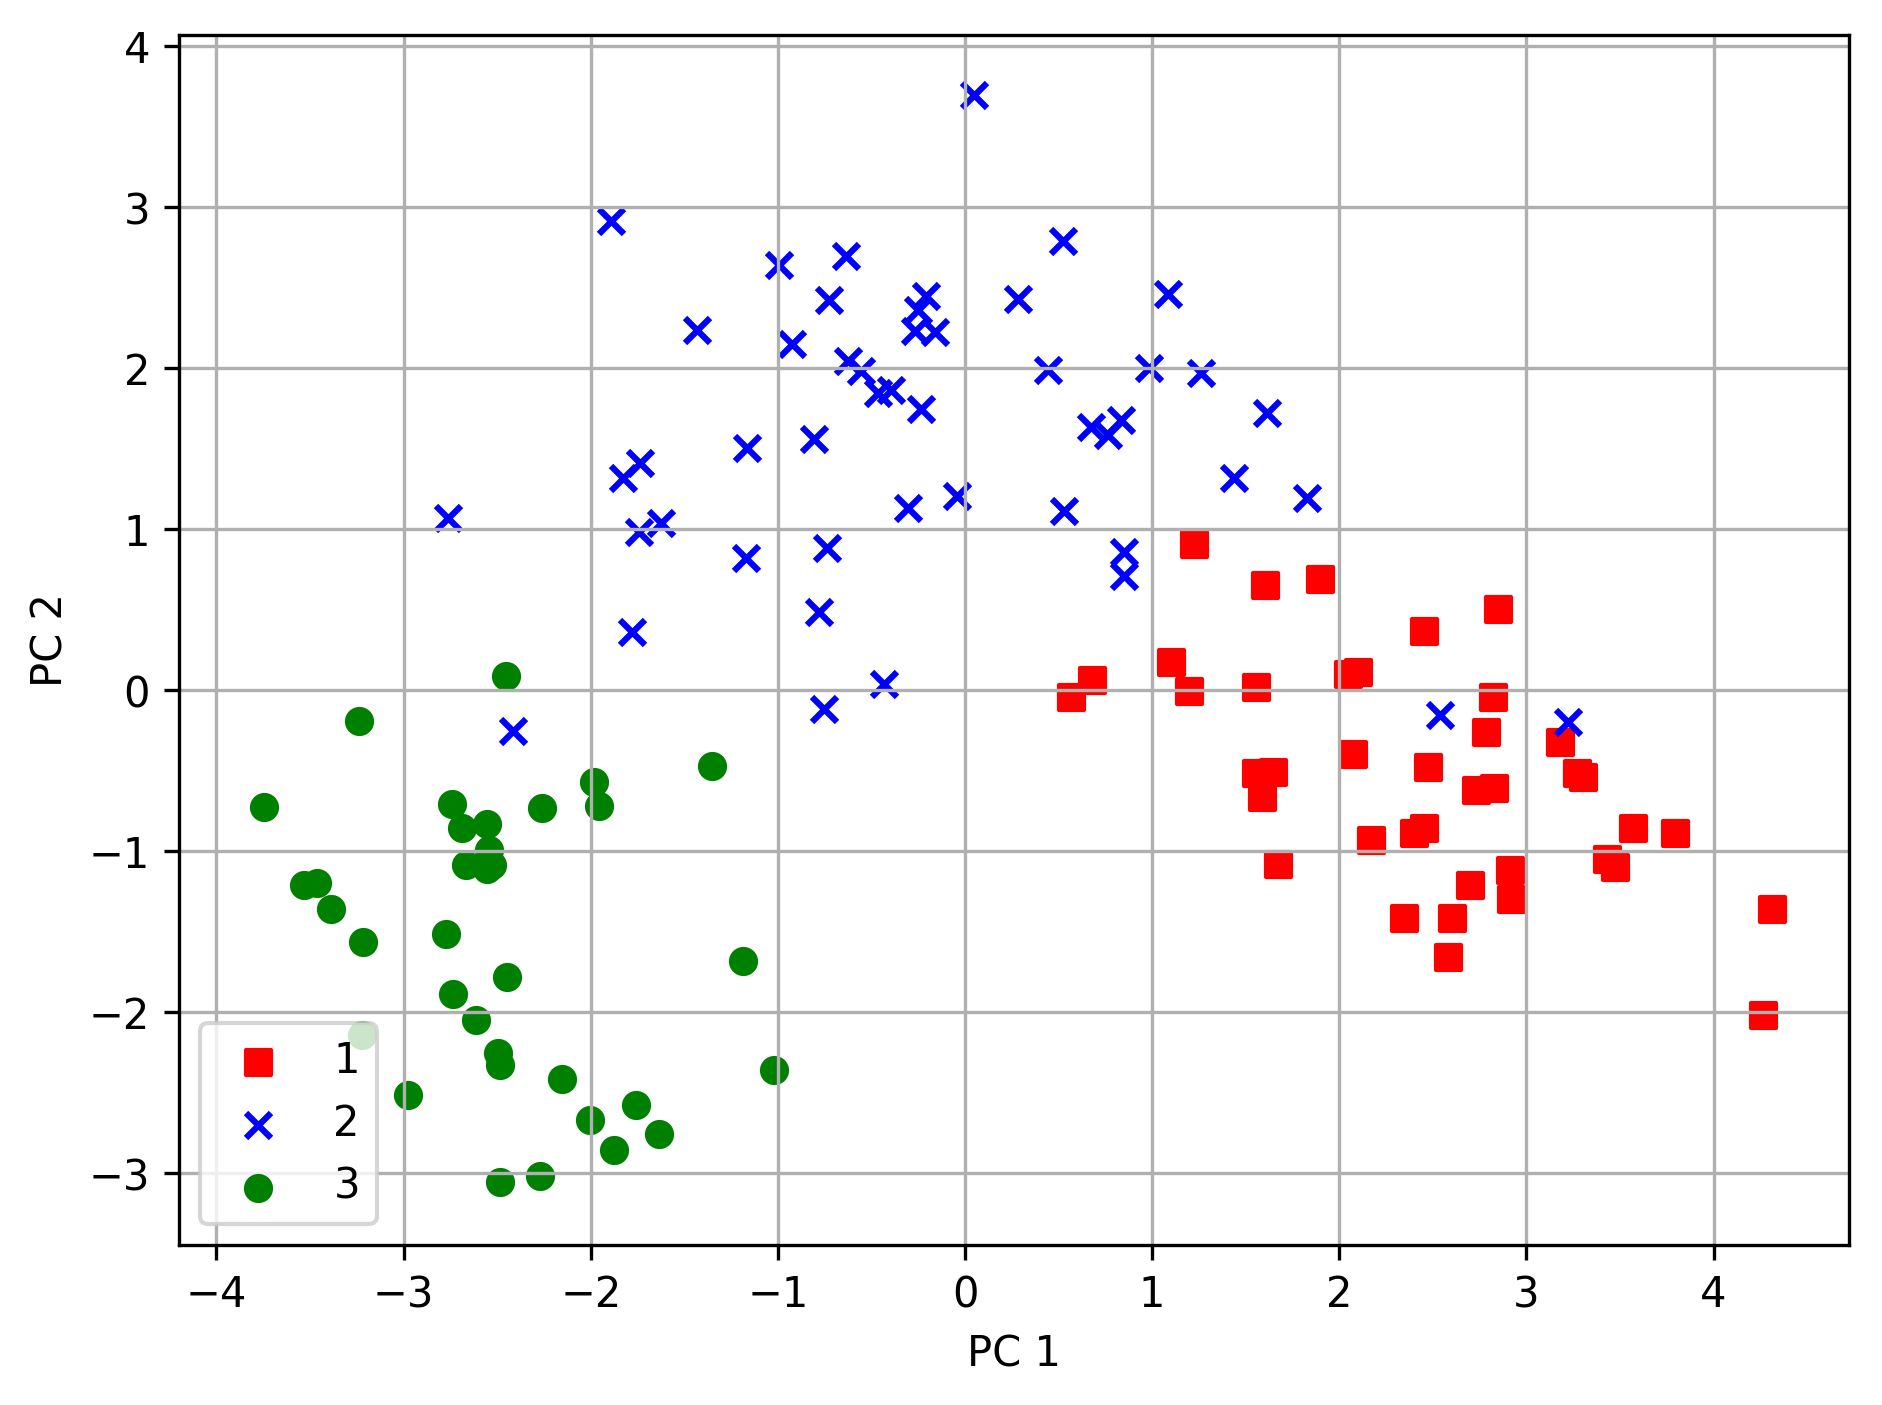
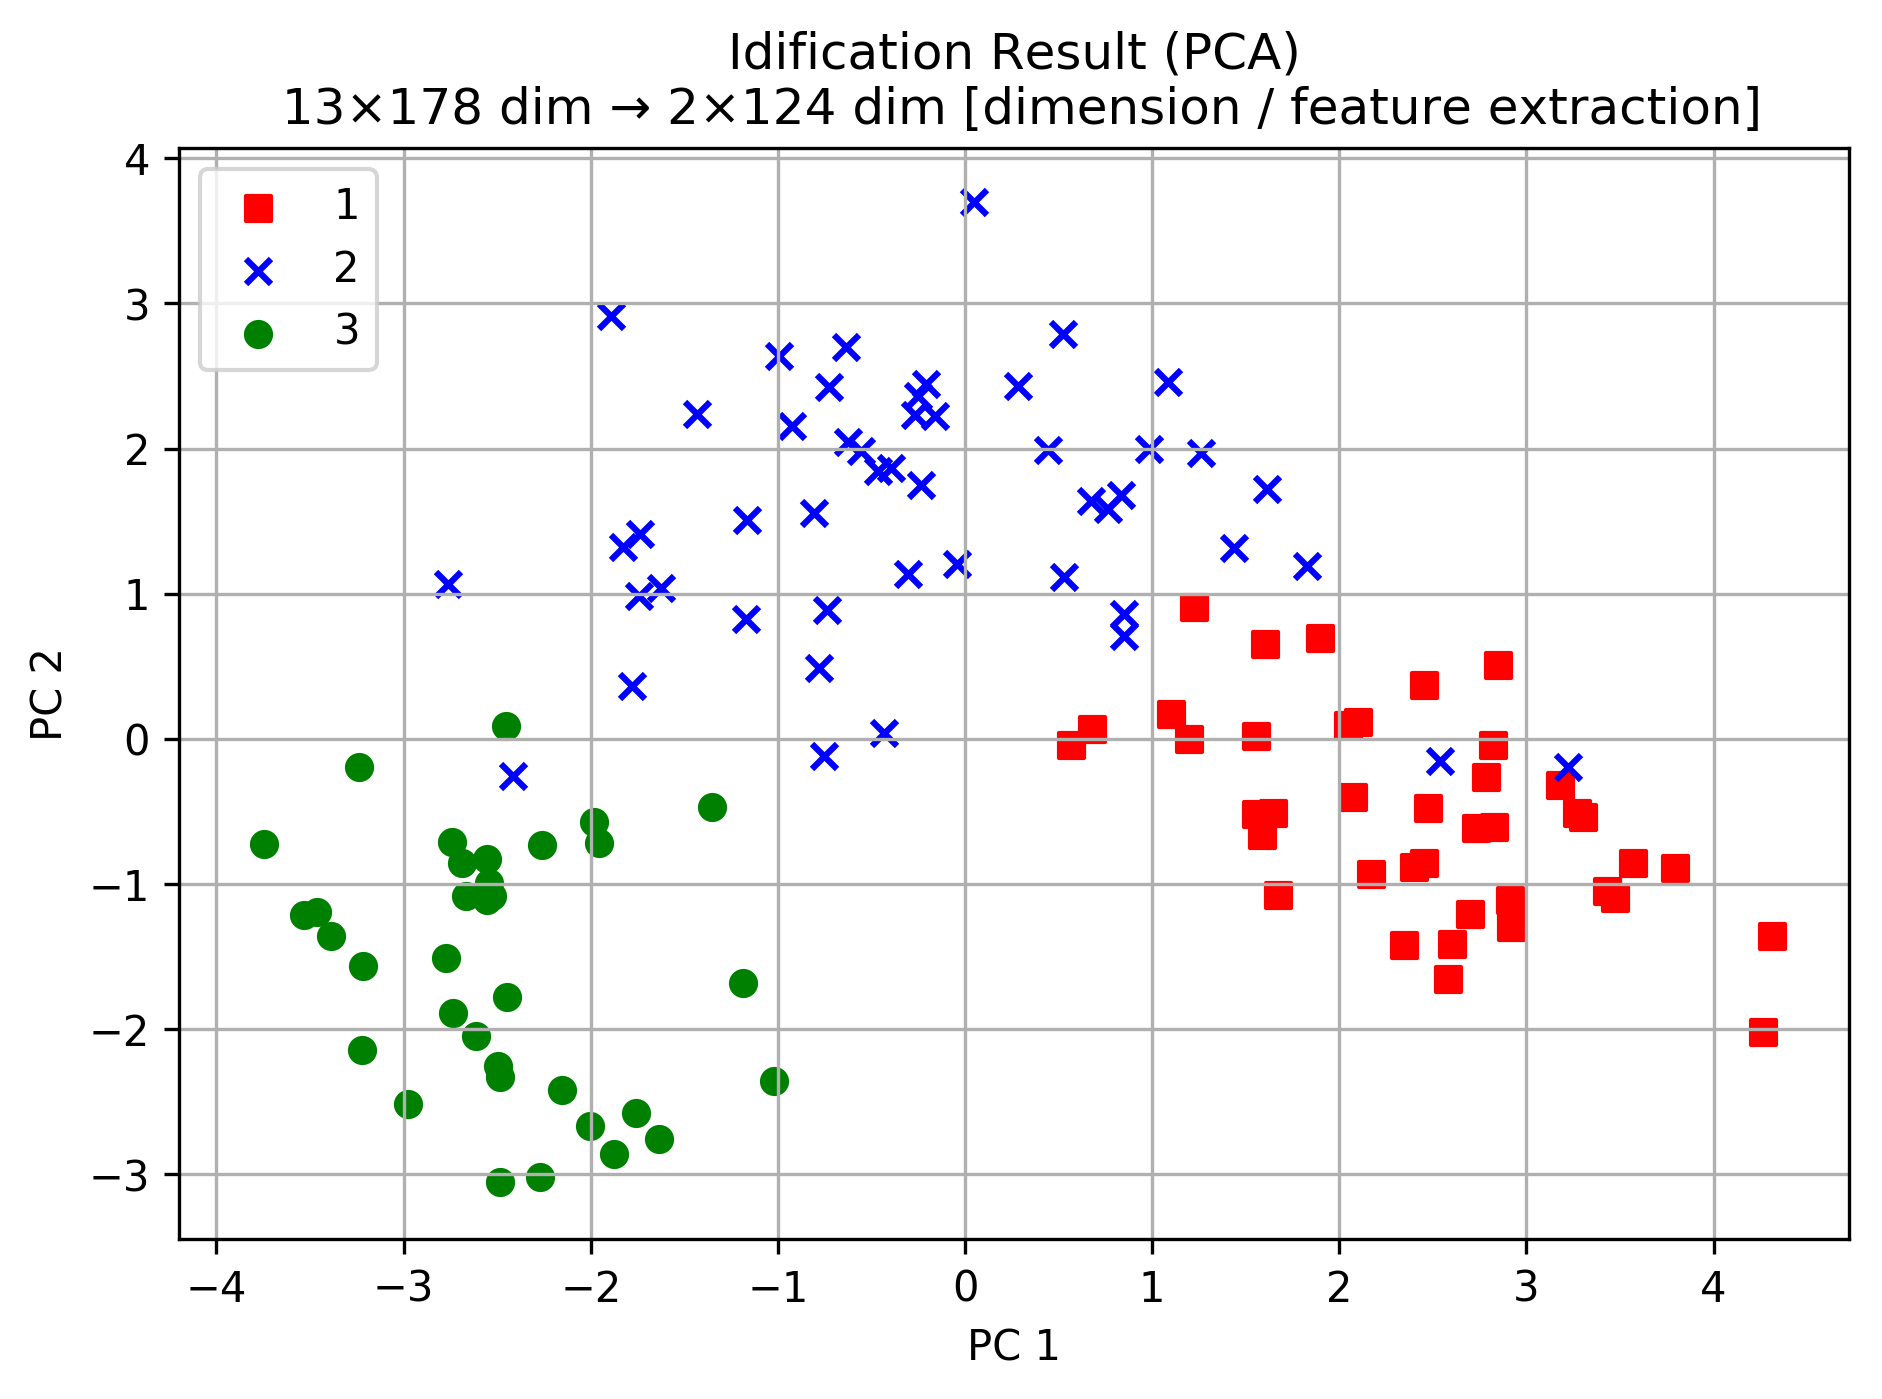
Add files via upload

diff --git a/PCA_scikit-learn/main1.py b/PCA_scikit-learn/main1.py
@@ -227,11 +227,11 @@ def main():
             label = l, 
             marker = m
         )
-
-    # 
+    
+    plt.title("Idification Result (PCA)\n 13×178 dim → 2×124 dim [dimension / feature extraction]")
     plt.xlabel('PC 1')
     plt.ylabel('PC 2')
-    plt.legend(loc='lower left')
+    plt.legend(loc='upper left')
     plt.tight_layout()
 
     # 図の保存＆表示

diff --git a/PCA_scikit-learn/README.md b/PCA_scikit-learn/README.md
@@ -42,11 +42,11 @@
 
 ![pca_scikit-learn_2](https://user-images.githubusercontent.com/25688193/29246420-1ecbdf3e-8034-11e7-9732-1979c1d9c597.png)
 
-13×178 次元のデータ → 124×2 次元のデータに次元削除（特徴抽出）（※124は分割したトレーニングデータ数）
+13×178 次元のワインデータ → 2×124 次元のデータに次元削除（特徴抽出）（※124は分割したトレーニングデータ数）
 
 寄与率と累積寄与率の図より、第１主成分と第２主成分だけで、全体のデータの６０％近くを説明できることから、次元削除（特徴抽出）した、124×2 次元のデータでワインデータのクラス識別を行なった。
 
-![pca_scikit-learn_3](https://user-images.githubusercontent.com/25688193/29246715-2d9b08be-803e-11e7-8955-3ebff2f7e867.png)
+![pca_scikit-learn_3](https://user-images.githubusercontent.com/25688193/29248581-7521b3fa-8056-11e7-804c-a99d24d184b4.png)
 
 ### Theory
 ![twitter_ _1-1_170812](https://user-images.githubusercontent.com/25688193/29239290-5fb880fa-7f86-11e7-8ccf-a4d5b7d5cb93.png)
